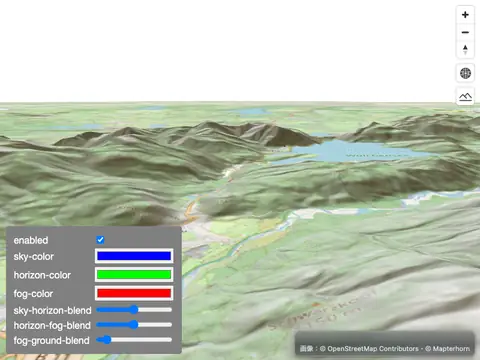
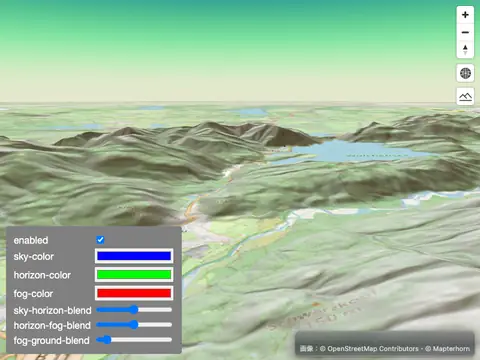
/maplibre 頁: sky-fog-terrain を GL2 で撮り直し（空と霧の色が出る）
WebGPU の写しは空が白のままだったので、この 1 例だけ --gl2 で o1012 に上書き。54%→55%・段 2 のまま。

Claude-Session: https://claude.ai/code/session_01Mx6iHZ6H4MXrXd9uuZkpV2

Changed region(s): [[0.0, 0.0, 1.0, 0.3056]]

diff --git a/apps/www/public/maplibre/index.html b/apps/www/public/maplibre/index.html
@@ -739,7 +739,7 @@ pre{margin:12px 0 0;padding:16px 18px 20px;background:var(--code);font:12.5px/1.
 <div class="shot"><img loading="lazy" src="thumbs/sky-fog-terrain.webp" alt=""></div>
 <div class="body">
 <h2 title="Sky, Fog, Terrain">Sky, Fog, Terrain</h2>
-<p class="meta"><button type="button" class="cat" data-cat="Terrain &amp; Hillshade" title="Show this category">Terrain &amp; Hillshade</button> <span class="pct" title="answers 7/7 · picture 24/100 probes" data-pct="54">(54%)</span> <span class="nt" title="Has a note">note</span></p>
+<p class="meta"><button type="button" class="cat" data-cat="Terrain &amp; Hillshade" title="Show this category">Terrain &amp; Hillshade</button> <span class="pct" title="answers 7/7 · picture 25/100 probes" data-pct="55">(55%)</span> <span class="nt" title="Has a note">note</span></p>
 </div></article>
 <article class="card" data-cat="Camera &amp; Animation" data-note="0" data-name="slowly-fly-to-a-location" tabindex="0" role="button" aria-label="Slowly fly to a location">
 <div class="shot"><img loading="lazy" src="thumbs/slowly-fly-to-a-location.webp" alt=""></div>
